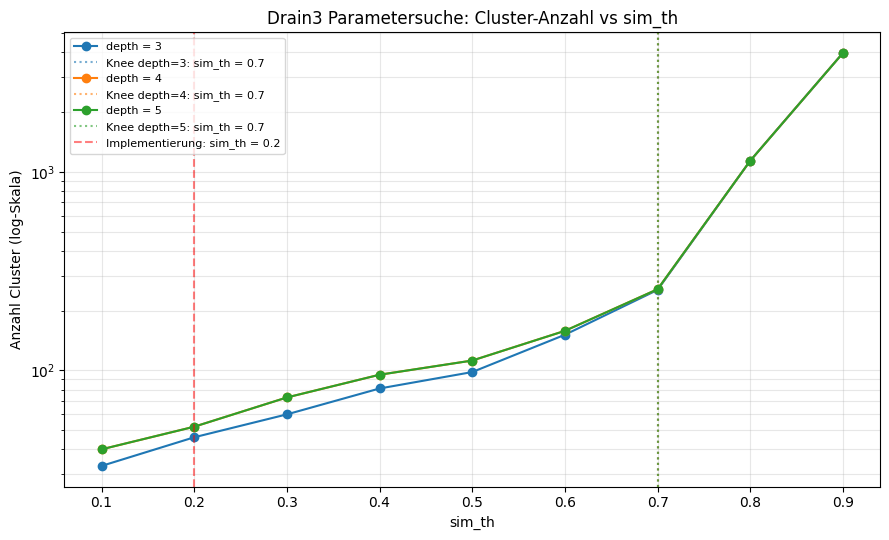
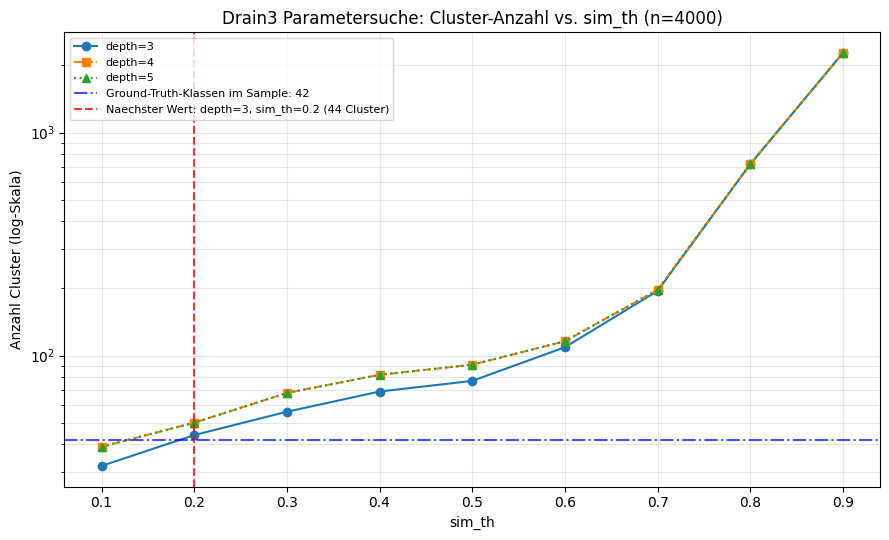
update brain param

diff --git a/content/05_Evaluation.tex b/content/05_Evaluation.tex
@@ -197,69 +197,100 @@ $\varepsilon = 0{,}4$ verwendet.
 
 Drain3 wird durch zwei zentrale Hyperparameter gesteuert: den
 Ähnlichkeitsschwellenwert \texttt{drain\_sim\_th} und die Baumtiefe
-\texttt{drain\_depth}. Beide Parameter werden über einen 2D-Parameterdurchlauf
-gemeinsam untersucht. \texttt{drain\_sim\_th} bestimmt, ab welchem Grad an Übereinstimmung
-zweier Lognachrichten diese demselben Template zugeordnet werden;
-\texttt{drain\_depth} legt die maximale Tiefe des Parse-Baums fest und damit
-indirekt die strukturelle Granularität der erzeugten Templates.
+\texttt{drain\_depth}. \texttt{drain\_sim\_th} bestimmt, ab welchem Grad an
+Übereinstimmung zweier Lognachrichten diese demselben Template zugeordnet
+werden; \texttt{drain\_depth} legt die maximale Tiefe des Parse-Baums fest und
+damit indirekt die strukturelle Granularität der erzeugten Templates. Anders
+als bei K-Means und DBSCAN, deren Parameterwahl ausschließlich unsupervised
+erfolgt, wird für Drain3 -- wie in Abschnitt~\ref{sec:eval:parameterwahl}
+begründet -- eine Teilmenge des Ground-Truth-Datensatzes herangezogen. Die
+Suche erfolgt primär als 1D-Sweep über \texttt{drain\_sim\_th};
+\texttt{drain\_depth} wird als Variante mitgeführt, um die Robustheit der
+gefundenen \texttt{sim\_th}-Wahl gegenüber der Baumtiefe zu prüfen.
 
 \paragraph{Aufbau des Parameterdurchlaufs.}
-Für \texttt{drain\_sim\_th} wird der Bereich
-$\{0{,}1, 0{,}2, \dots, 0{,}9\}$ vollständig durchlaufen, für
-\texttt{drain\_depth} die Werte $\{3, 4, 5\}$. Pro Kombination wird ein
-frischer \texttt{TemplateMiner} instanziiert, alle $10\,000$ Lognachrichten
-sequenziell verarbeitet und die Anzahl eindeutiger Cluster-IDs protokolliert.
-Als unsupervised Auswertungskriterium dient die Cluster-Anzahl als Funktion
-von \texttt{drain\_sim\_th}; der Übergang von kontrolliertem Wachstum zur
-exponentiellen Übersegmentierung wird automatisch mittels der
-\texttt{KneeLocator}-Bibliothek (\texttt{curve='convex'},
-\texttt{direction='increasing'}) lokalisiert. Die zugehörige Implementierung
-findet sich im Notebook \texttt{ML.ipynb} (Zelle~12).
+Aus den $10\,000$ Lognachrichten des gemischten Datensatzes wird mit festem
+Seed ($42$) eine reproduzierbare Stichprobe von $4\,000$ Nachrichten
+($40\,\%$) gezogen. Für diese Stichprobe wird die Anzahl der enthaltenen
+Ground-Truth-Klassen bestimmt; sie beträgt $42$ -- zwei der insgesamt $44$
+Klassen des Gesamtdatensatzes (vgl.\ Abschnitt~\ref{sec:eval:aufbau}) sind in
+der Stichprobe nicht vertreten. Für jede Kombination aus
+$\texttt{drain\_sim\_th} \in \{0{,}1, 0{,}2, \dots, 0{,}9\}$ und
+$\texttt{drain\_depth} \in \{3, 4, 5\}$ ($27$ Kombinationen) wird ein
+frischer \texttt{TemplateMiner} instanziiert, die Stichprobe sequenziell
+verarbeitet und die Anzahl eindeutiger Cluster-IDs protokolliert. Als
+Auswahlkriterium dient -- je \texttt{depth}-Wert -- die kleinste absolute
+Differenz zwischen resultierender Cluster-Anzahl und der
+Ground-Truth-Klassenzahl der Stichprobe ($42$); aus den drei
+depth-spezifischen Minima wird anschließend die insgesamt beste Kombination
+bestimmt. Da ausschließlich Cluster-\emph{Anzahlen} verglichen werden und
+weder ARI noch V-Measure in die Auswahl einfließen, bleibt die in
+Abschnitt~\ref{sec:eval:parameterwahl} geforderte Trennung von Tuning- und
+Evaluationsmetrik gewahrt. Die zugehörige Implementierung findet sich im
+Notebook \texttt{ML.ipynb} (Zelle~5).
 
 \begin{figure}[h]
     \centering
     \includegraphics[width=0.9\linewidth]{images/drain3_sweep.png}
-    \caption{Drain3-Parametersuche: Cluster-Anzahl als Funktion von \texttt{drain\_sim\_th} für drei Werte von \texttt{drain\_depth} (logarithmische y-Achse). Der per \texttt{KneeLocator} bestimmte Knick liegt für alle drei \texttt{depth}-Werte bei \texttt{sim\_th} $= 0{,}7$ (grün gepunktet); der Implementierungswert \texttt{sim\_th} $= 0{,}2$ ist rot eingezeichnet.}
+    \caption{Drain3-Parametersuche: Cluster-Anzahl als Funktion von \texttt{drain\_sim\_th} für drei Werte von \texttt{drain\_depth} auf einer Stichprobe von $4\,000$ Lognachrichten (logarithmische y-Achse). Die blaue Strichpunktlinie markiert die $42$ Ground-Truth-Klassen der Stichprobe; die rote gestrichelte Linie zeigt die beste gefundene Kombination (\texttt{depth} $=3$, \texttt{sim\_th} $=0{,}2$, $44$ Cluster).}
     \label{fig:drain3-sweep}
 \end{figure}
 
-\paragraph{Beobachtung 1: \texttt{depth} hat vernachlässigbaren Einfluss.}
-Die drei Kurven für \texttt{depth} $\in \{3, 4, 5\}$ liegen in
-Abbildung~\ref{fig:drain3-sweep} nahezu deckungsgleich übereinander. Der
-Parameter beeinflusst die strukturelle Aufteilung im Parse-Baum, ändert die
-resultierende Cluster-Anzahl jedoch in dem hier untersuchten
-$\texttt{sim\_th}$-Bereich nur marginal. Für die Implementierung wird daher
-\texttt{depth} $= 4$ als sklearn-konformer Default beibehalten.
+\paragraph{Beobachtung 1: \texttt{depth=4} und \texttt{depth=5} identisch, \texttt{depth=3} weicht im unteren Bereich ab.}
+Die Kurven für \texttt{depth} $\in \{4, 5\}$ liegen in
+Abbildung~\ref{fig:drain3-sweep} exakt übereinander -- für keinen der neun
+untersuchten \texttt{sim\_th}-Werte unterscheidet sich die resultierende
+Cluster-Anzahl. \texttt{depth} $=3$ erzeugt dagegen im Bereich
+$\texttt{sim\_th} \in [0{,}1, 0{,}6]$ durchgehend weniger Cluster (ca.\
+$6\,\%$ bis $18\,\%$ unter den Werten von \texttt{depth} $\in \{4, 5\}$),
+nähert sich bei $\texttt{sim\_th} = 0{,}7$ an (Differenz $\approx 1\,\%$) und
+ist ab $\texttt{sim\_th} \geq 0{,}8$ identisch zu den beiden anderen Tiefen.
+Eine Baumtiefe von $3$ reicht im niedrigen bis mittleren
+\texttt{sim\_th}-Bereich demnach nicht aus, um die strukturelle Vielfalt der
+Lognachrichten vollständig in unterschiedlichen Ästen abzubilden, sodass sich
+mehr Nachrichten einen Pfad und damit ein Template teilen. Mit steigendem
+\texttt{sim\_th} dominiert zunehmend der Ähnlichkeitsschwellenwert die
+Cluster-Bildung, wodurch der Effekt der Baumtiefe verschwindet. Ab
+\texttt{depth} $=4$ steht offenbar bereits ausreichend Verzweigungskapazität
+zur Verfügung, sodass eine weitere Erhöhung auf $5$ keinen messbaren Effekt
+mehr zeigt.
 
-\paragraph{Beobachtung 2: Knee bei \texttt{sim\_th} $= 0{,}7$.}
-Die Cluster-Anzahl wächst zwischen \texttt{sim\_th} $= 0{,}1$ und
-\texttt{sim\_th} $= 0{,}7$ moderat von $\approx 37$ auf $\approx 250$. Ab
-\texttt{sim\_th} $> 0{,}7$ steigt sie stark auf $\approx 1100$ (bei $0{,}8$)
-bzw. $\approx 3000$ (bei $0{,}9$). Der Knee markiert damit \emph{nicht} das
-Optimum, sondern eine \emph{obere Schranke}: Oberhalb dieses Werts erzeugt
-jede syntaktische Variation einer Lognachricht einen separaten Ast im
-Baum, was zu einer katastrophalen Übersegmentierung führt.
+\paragraph{Beobachtung 2: moderates Wachstum bis \texttt{sim\_th=0,7}, danach sprunghafte Übersegmentierung.}
+Für \texttt{depth} $\in \{4, 5\}$ wächst die Cluster-Anzahl von $39$
+($\texttt{sim\_th}=0{,}1$) über $116$ ($\texttt{sim\_th}=0{,}6$) auf $197$
+($\texttt{sim\_th}=0{,}7$) -- ein Faktor von rund $5$ über sechs
+Zehntelschritte. Zwischen $\texttt{sim\_th}=0{,}7$ und $0{,}8$ springt die
+Anzahl auf $722$ (Faktor $\approx 3{,}7$), zwischen $0{,}8$ und $0{,}9$ auf
+$2\,276$ (Faktor $\approx 3{,}2$). Oberhalb von $\texttt{sim\_th} \approx 0{,}7$
+erzeugt damit bereits eine geringfügige syntaktische Variation einer
+Lognachricht einen eigenen Ast im Parse-Baum, was zu katastrophaler
+Übersegmentierung führt.
 
-\paragraph{Wahl von \texttt{sim\_th}.}
-Innerhalb der sicheren Zone $\texttt{sim\_th} \leq 0{,}7$ wächst die Kurve
-monoton ohne klares Plateau; ein eindeutiges Optimum lässt sich aus dem
-Parameterdurchlauf allein nicht ableiten. Methodisch wird daher der konservativ niedrige
-Wert \texttt{sim\_th} $= 0{,}2$ verwendet. Drei Argumente stützen diese
-Wahl:
+\paragraph{Wahl von \texttt{sim\_th} und \texttt{depth}.}
+Je \texttt{depth}-Wert liegt das Minimum der Differenz zur
+Ground-Truth-Klassenzahl der Stichprobe ($42$) bei: \texttt{depth=3} --
+\texttt{sim\_th} $=0{,}2$ ($44$ Cluster, $\Delta = 2$); \texttt{depth=4} und
+\texttt{depth=5} -- \texttt{sim\_th} $=0{,}1$ ($39$ Cluster, $\Delta = 3$).
+Über alle $27$ Kombinationen ist \texttt{depth} $=3$ mit \texttt{sim\_th}
+$=0{,}2$ damit die insgesamt beste Kombination und wird für Implementierung
+und Evaluation übernommen. Der Abstand zur zweitbesten Kombination beträgt
+lediglich eine Klasse; angesichts des in Beobachtung~1 beschriebenen
+Sättigungseffekts ab \texttt{depth} $=4$ wird diese geringe Differenz nicht
+als Beleg für eine grundsätzliche Überlegenheit von \texttt{depth} $=3$
+gewertet, sondern als Ergebnis der konkreten Klassenzusammensetzung der
+gezogenen Stichprobe. Zwei Argumente stützen \texttt{sim\_th} $=0{,}2$
+zusätzlich unabhängig vom konkreten Stichprobenergebnis:
 
 \begin{enumerate}
-    \item \emph{Maximaler Sicherheitsabstand zum Übersegmentierungs-Knick.}
-    Bei \texttt{sim\_th} $= 0{,}2$ liegt die Cluster-Anzahl mit $\approx 50$
-    eine volle Größenordnung unter dem Wert am Knee ($\approx 250$).
-    \item \emph{Größenordnung passend zum Datensatz.} Der gemischte
+    \item \emph{Sicherheitsabstand zur Übersegmentierungszone.} Bei
+    \texttt{sim\_th} $= 0{,}2$ liegt die Cluster-Anzahl mit $44$ bis $50$ eine
+    volle Größenordnung unter den Werten ab \texttt{sim\_th} $\geq 0{,}8$, ab
+    denen die Übersegmentierung gemäß Beobachtung~2 sprunghaft einsetzt.
+    \item \emph{Größenordnung passend zum Gesamtdatensatz.} Der gemischte
     Loghub-Datensatz enthält $44$ Ground-Truth-Klassen
     (vgl.\ Abschnitt~\ref{sec:eval:aufbau}). Die bei \texttt{sim\_th} $= 0{,}2$
-    erzeugten $\approx 50$ Cluster liegen damit in der natürlichen
-    Größenordnung der Daten, ohne dass diese Information in die
-    Parameterwahl eingeflossen ist.
-    \item \emph{Reine Templates trotz niedrigem Schwellenwert.} Die
-    Parse-Baum-Struktur von Drain3 erzwingt durch positionsbasierte
-    Verzweigung auch bei niedrigem \texttt{sim\_th} hochspezifische Templates.
+    erzeugte Cluster-Anzahl liegt unabhängig von der Stichprobe in dieser
+    Größenordnung.
 \end{enumerate}
 
 % ----------------------------------------------------------------